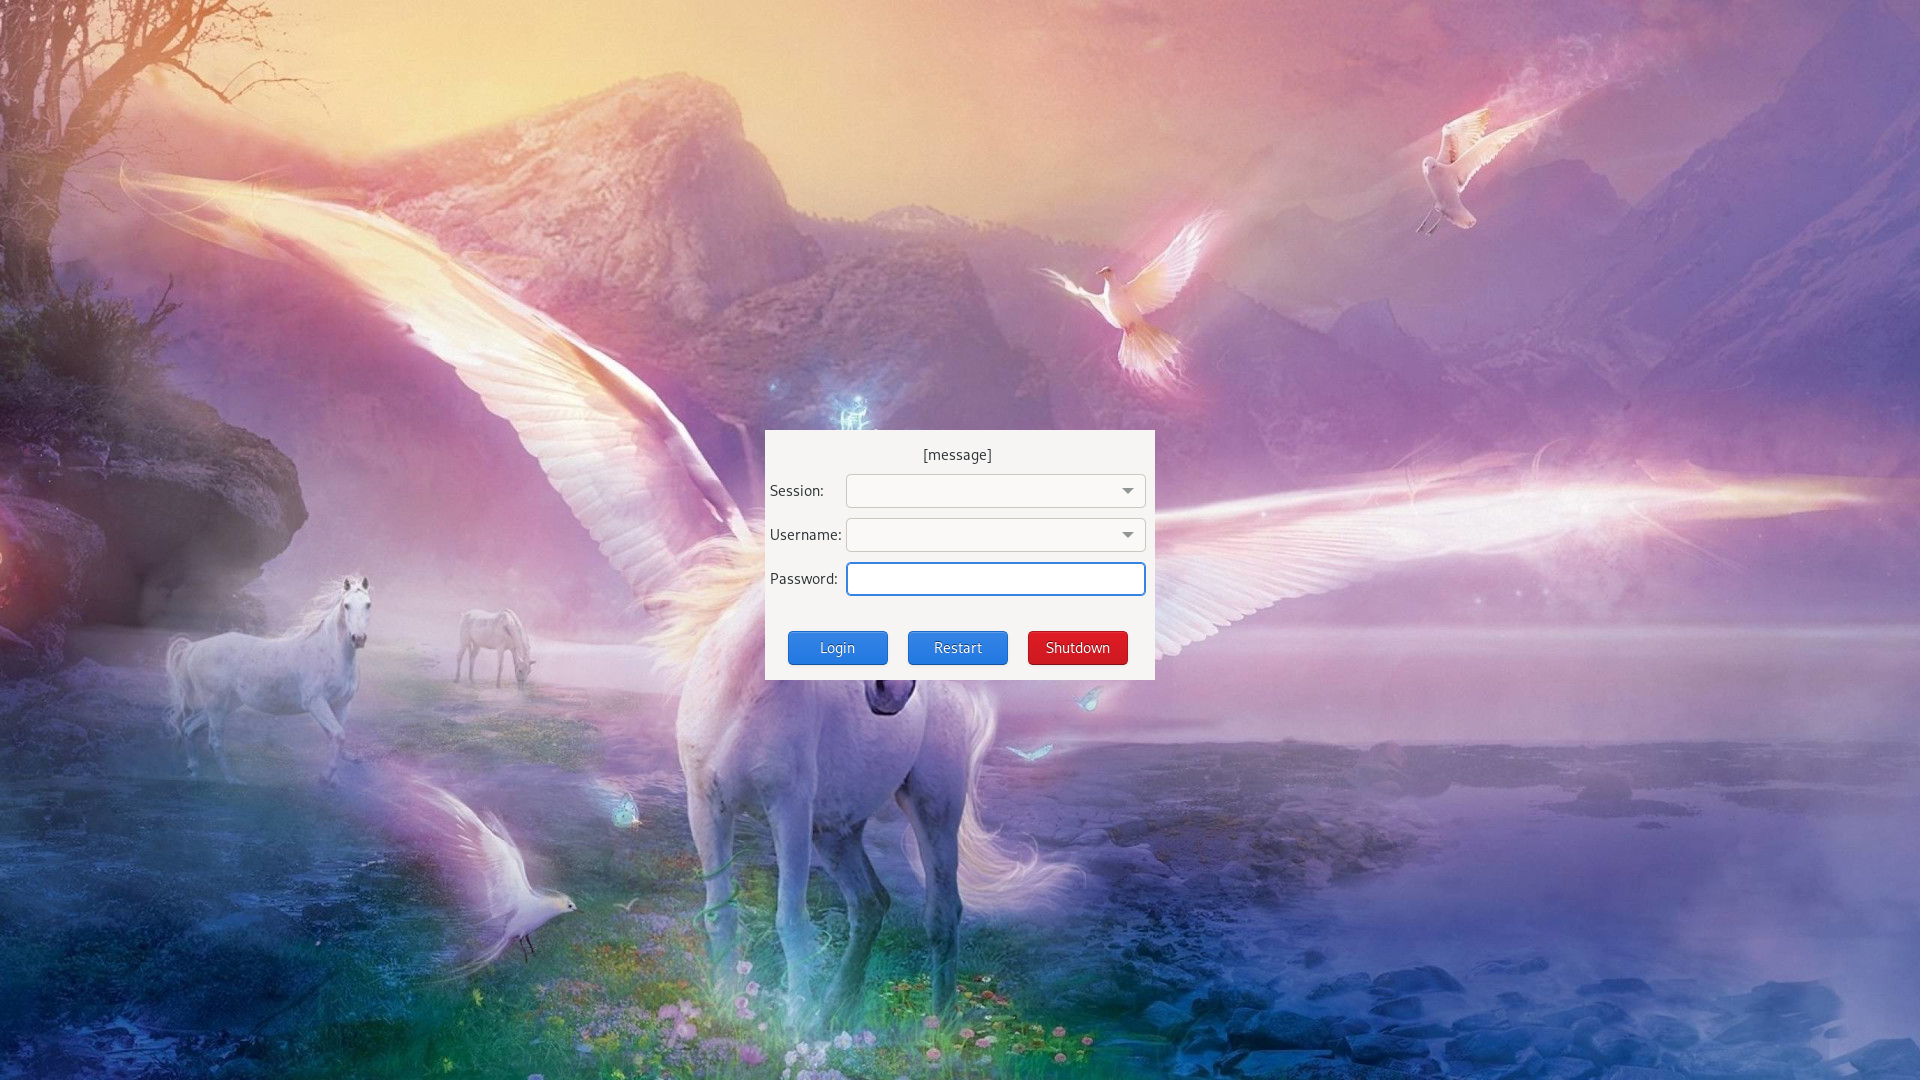
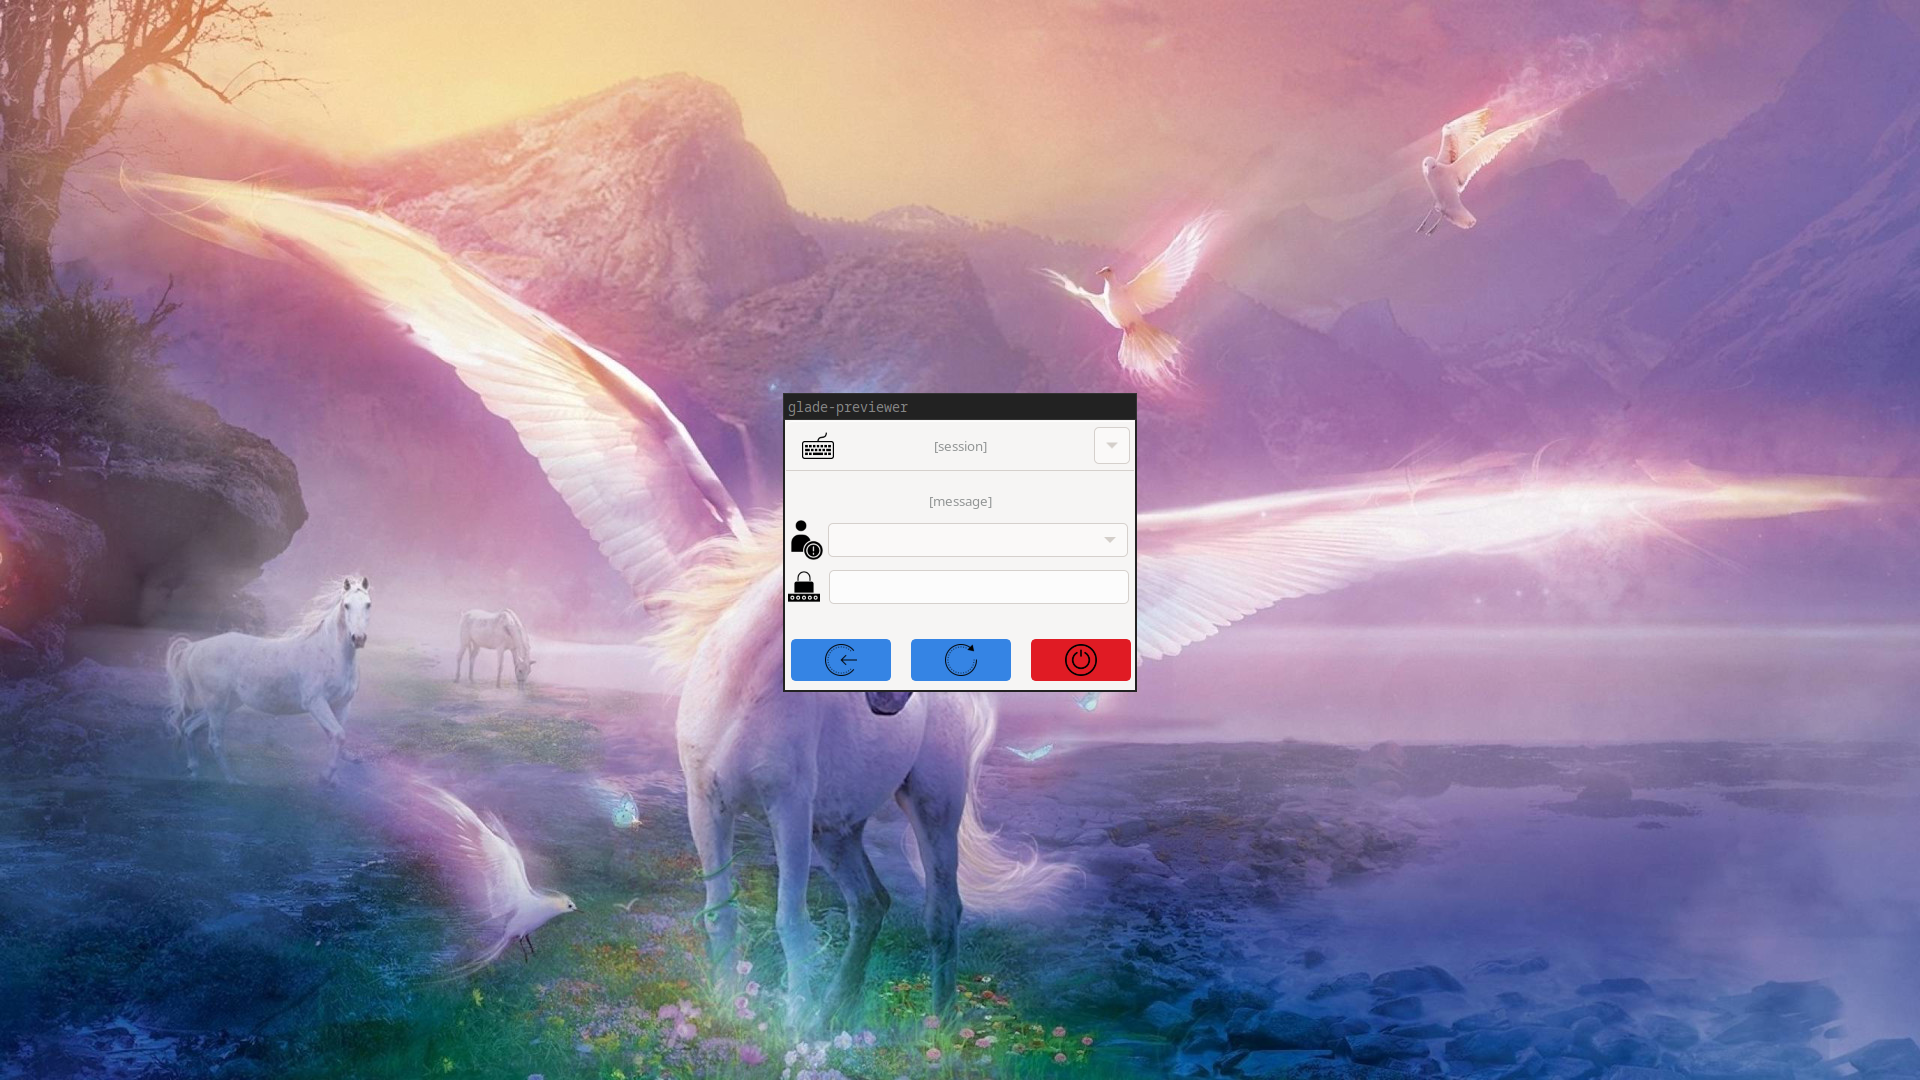
Add files via upload

Changed region(s): [[0.375, 0.3667, 0.625, 0.6417], [0.4688, 0.4583, 0.5312, 0.4889]]

diff --git a/lightdm-unicorn-greeter.py b/lightdm-unicorn-greeter.py
@@ -25,6 +25,7 @@ from gi.repository import LightDM
 DEFAULT_SESSION = "sway"
 UI_FILE_LOCATION = "/usr/local/share/lightdm-unicorn-greeter/lightdm-unicorn-greeter.ui"
 BACKGROUND_FILE_LOCATION = "/usr/local/share/lightdm-unicorn-greeter/img/back.jpg"
+SESSION_TYPE = "session_type_label"
 
 # read the cache
 cache_dir = (Path.home() / ".cache" / "lightdm-unicorn-greeter")
@@ -210,8 +211,8 @@ if __name__ == "__main__":
     login_back = builder.get_object("login_back")
     login_window = builder.get_object("login_window")
     password_entry = builder.get_object("password_entry")
-    password_label = builder.get_object("password_label")
     message_label = builder.get_object("message_label")
+    session_type_label = builder.get_object("session_type_label")
     usernames_box = builder.get_object("usernames_cb")
     sessions_box = builder.get_object("sessions_cb")
     login_button = builder.get_object("login_button")
@@ -229,9 +230,13 @@ if __name__ == "__main__":
     password_entry.set_text("")
     password_entry.set_sensitive(True)
     password_entry.set_visibility(False)
+    message_label.set_text("It's so fluffy, I'm gonna die!")
     if greeter_session_type is not None:
         print(f"greeter session type: {greeter_session_type}", file=sys.stderr)
-        message_label.set_text("It's so fluffy, I'm gonna die!")
+        if greeter_session_type.lower() == "wayland":
+            session_type_label.set_text("Wayland")
+        elif greeter_session_type.lower() == "x11":
+            session_type_label.set_text("X11")
             
     # register handlers for our UI elements
     poweroff_button.connect("clicked", poweroff_click_handler)

diff --git a/README.md b/README.md
@@ -1,6 +1,8 @@
 # LightDM Unicorn Greeter
 
-Latest Version: .52 1/31/22
+Latest Version: .60
+
+* Developer's note:  this release is mainly focused on hammering down the layout that I envision the greeter to have. Refinements and features will come in the next few releases.
 
 A more feature rich [LightDM](https://github.com/canonical/lightdm) greeter using Python and GTK that doesn't require an X11 server.
 
@@ -39,7 +41,7 @@ I prefer to use a greeter, and LightDm is my preferred. I wanted a Wayland nativ
 
 ```ini
 git clone https://github.com/FlirtatiousMule/lightdm-unicorn-greeter.git
-(`make install`) or (`sudo make install`) for non root
+make install or sudo make install for non root
 Update LightDM's configuration file to register the greeter (`/etc/lightdm/lightdm.conf`):
 
 [LightDM]
@@ -74,6 +76,22 @@ background-file-location=/usr/local/share/lightdm-unicorn-greeter/img/back.jpg
 
 
 ## Changelog
+
+.60
+* Developer's note:  this release is mainly focused on hammering down the layout that I envision the greeter to have. Refinements and features will come in the next few releases.
+* Added a keyboard layout menu (work in progress) placeholder
+* Added headerbar to login dialog
+* Added a session type display to the headerbar
+* Removed Login text
+* Removed Restart text
+* Removed Shutdown text
+* Added Login icon
+* Added Restart icon
+* Added Shutdown icon
+* Added tooltips to the interace
+* Added user icon (eventually will support user images)
+* Added password icon
+* Moved the session selection to the headerbar (upper left of login dialog)
 
 .52
 * Fixed a bug that would cause the login window to be behind the background
